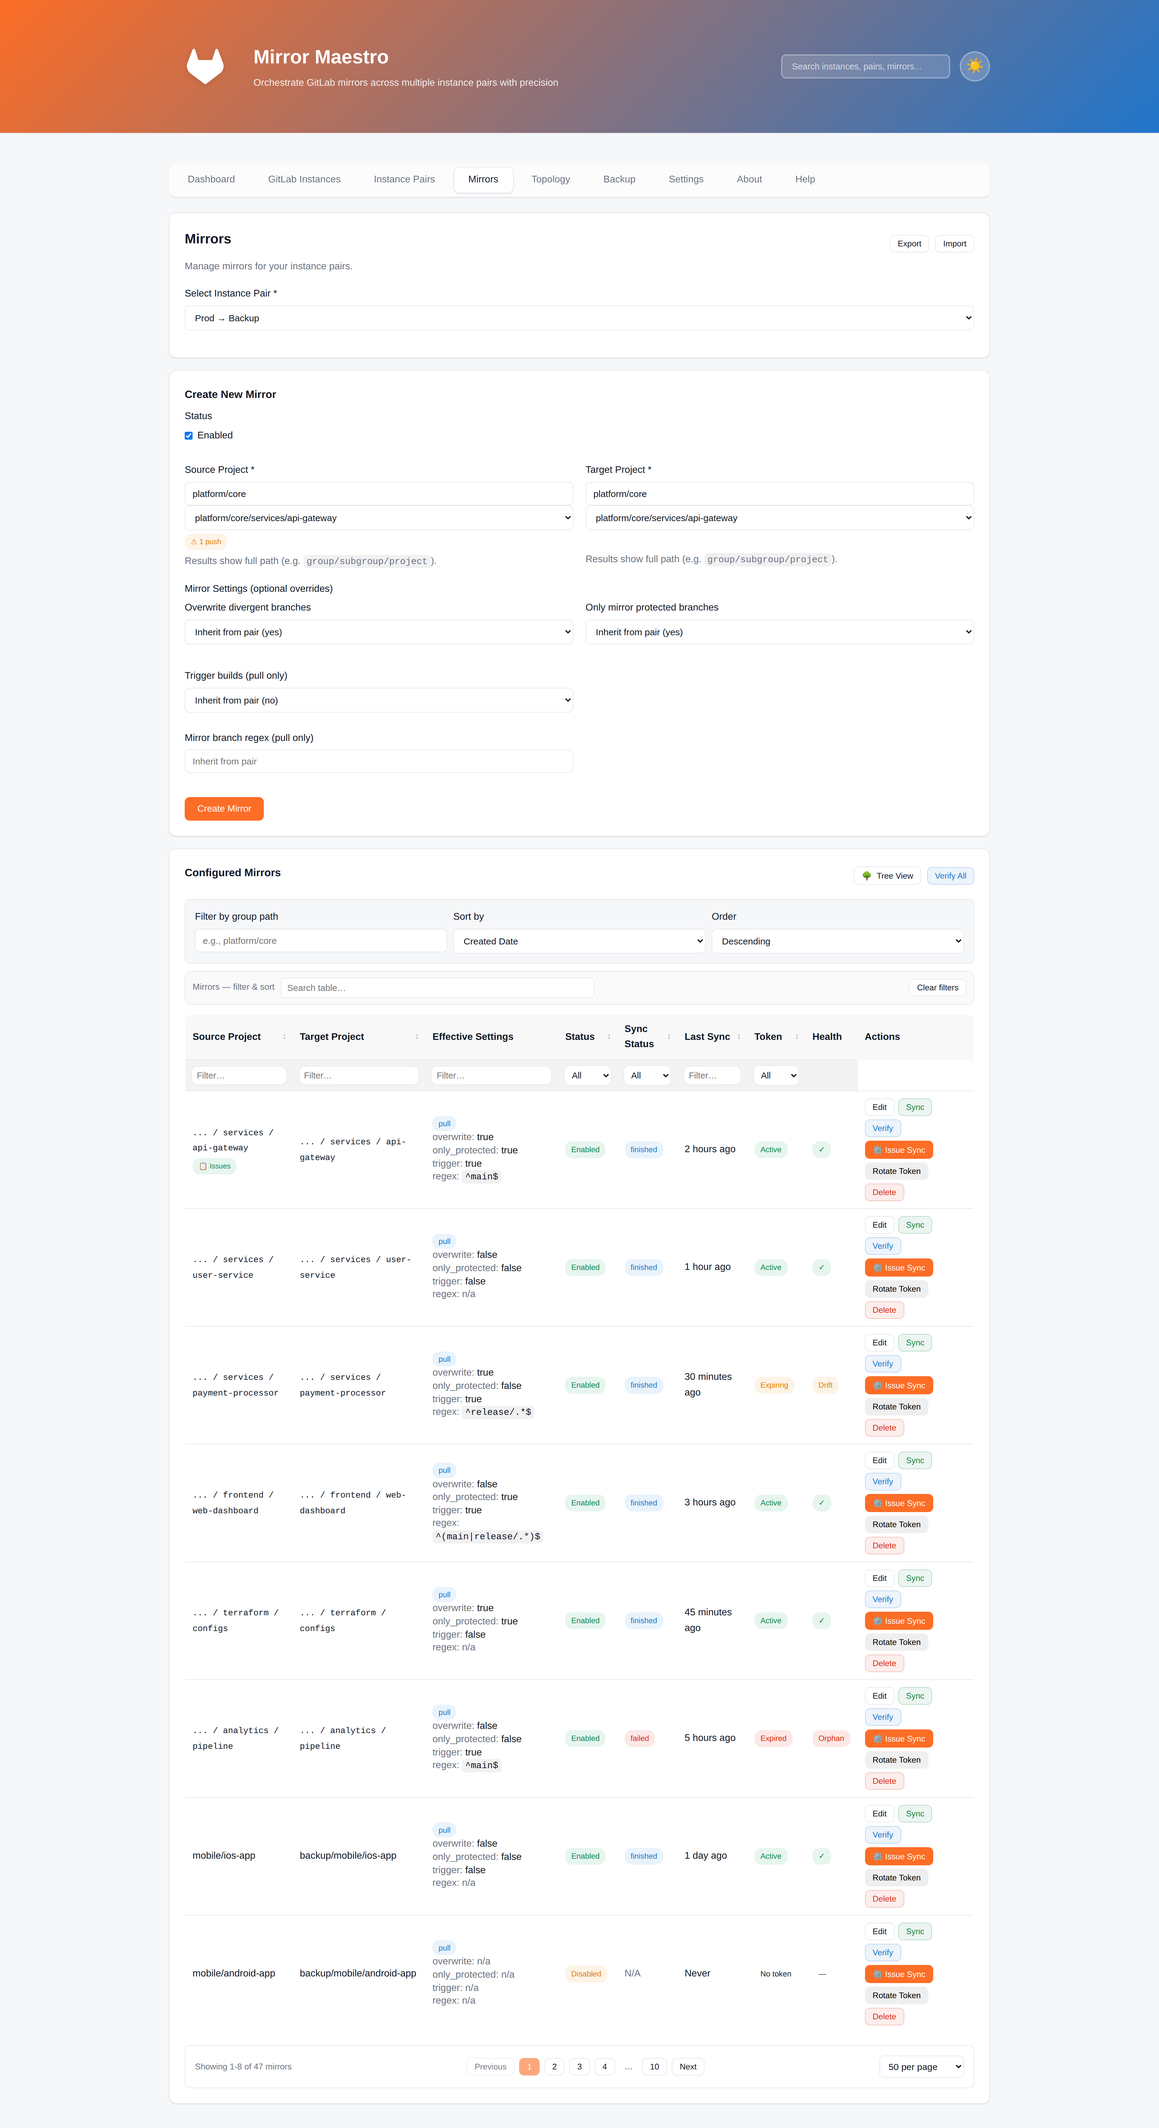
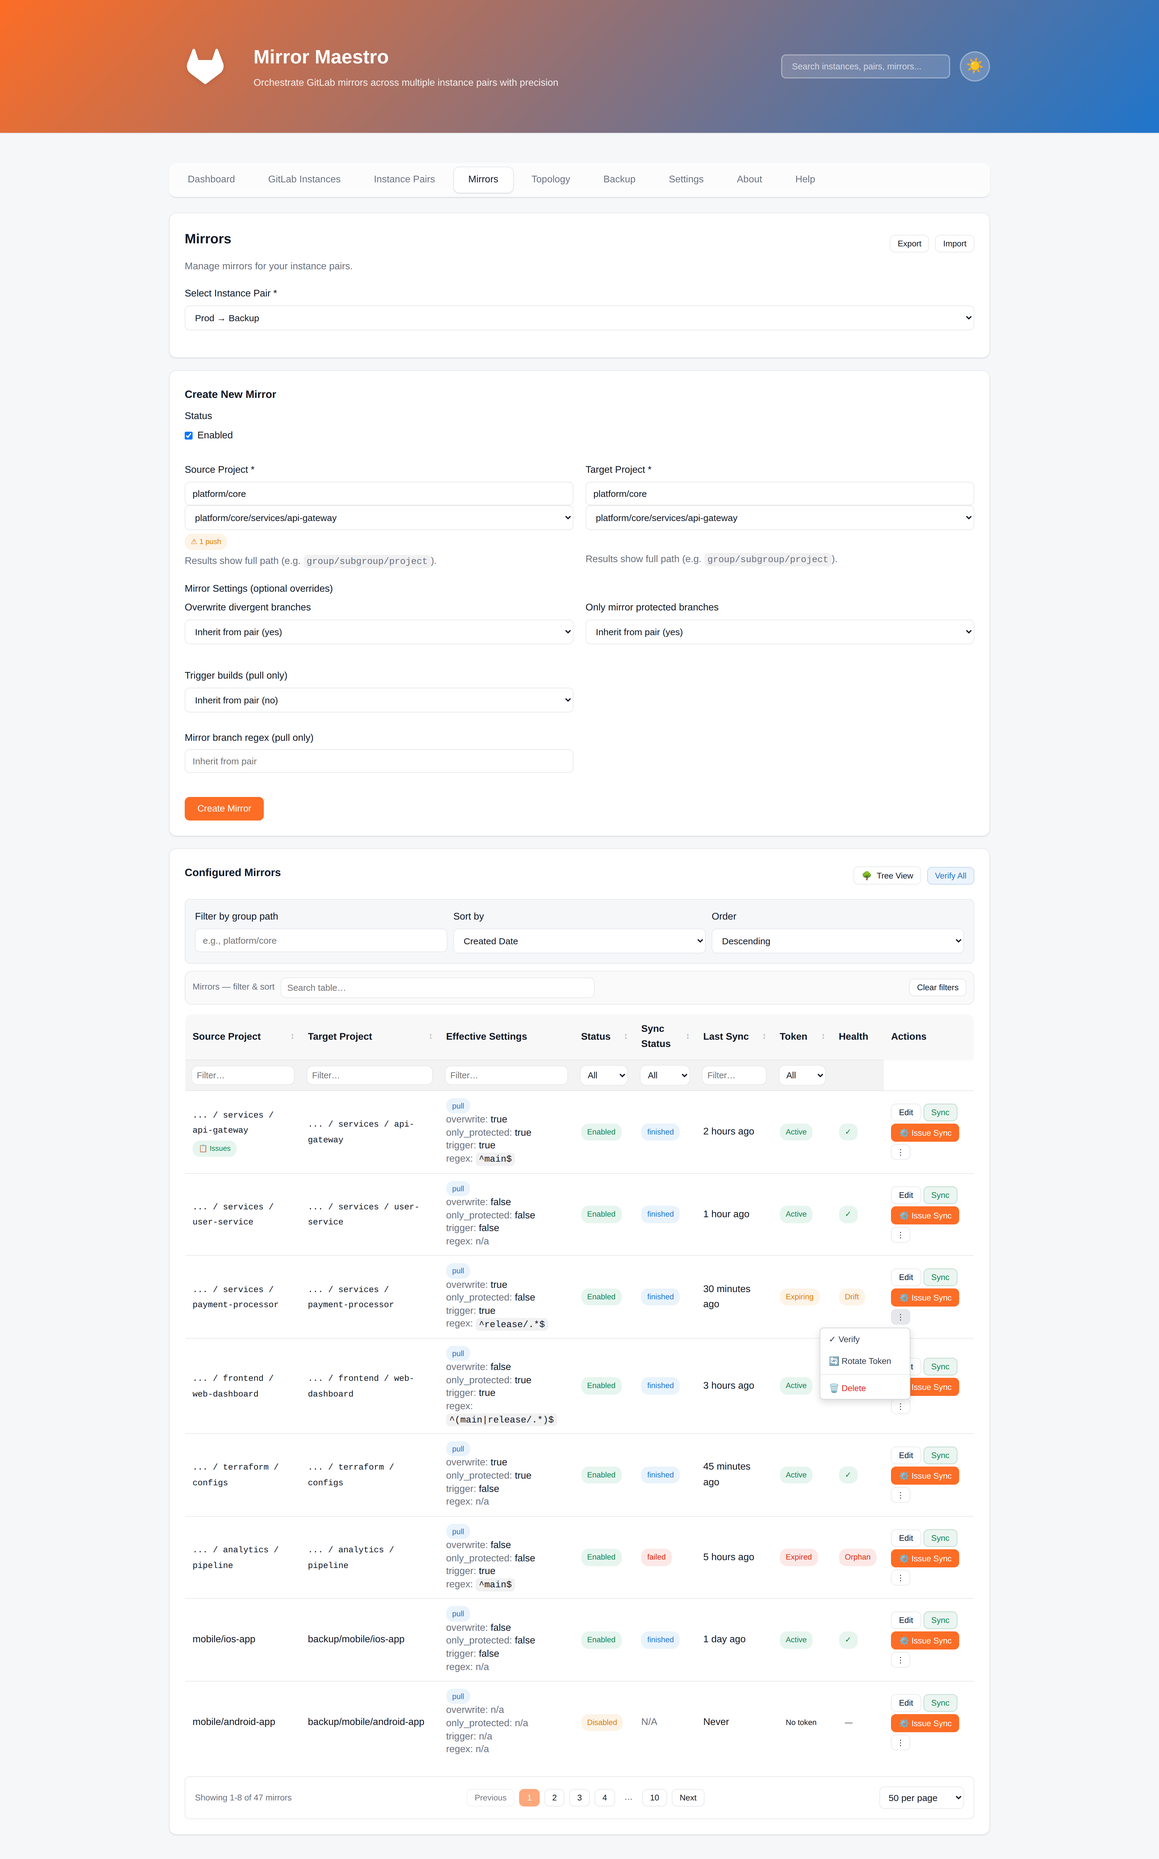
feat: Redesign Actions column with dropdown menu for cleaner UI
- Reduce visual clutter by showing only primary actions (Edit, Sync, Issue Sync)
- Move secondary actions (Verify, Rotate Token, Delete) to dropdown menu
- Add ⋮ (vertical ellipsis) button to access dropdown
- Show one row with expanded dropdown to demonstrate available options
- Improve table readability and reduce button overload

diff --git a/docs/screenshots/demo-mirrors.html b/docs/screenshots/demo-mirrors.html
@@ -224,13 +224,19 @@
                             <td><span class="badge badge-success">Active</span></td>
                             <td><span class="badge badge-success" title="Mirror verified: healthy">✓</span></td>
                             <td>
-                                <div class="table-actions">
+                                <div class="table-actions" style="display: flex; gap: 0.25rem; flex-wrap: wrap;">
                                     <button class="btn btn-secondary btn-small">Edit</button>
                                     <button class="btn btn-success btn-small">Sync</button>
-                                    <button class="btn btn-info btn-small">Verify</button>
                                     <button class="btn btn-primary btn-small">⚙ Issue Sync</button>
-                                    <button class="btn btn-warning btn-small">Rotate Token</button>
-                                    <button class="btn btn-danger btn-small">Delete</button>
+                                    <div style="position: relative; display: inline-block;">
+                                        <button class="btn btn-secondary btn-small" style="padding: 0.25rem 0.5rem;">⋮</button>
+                                        <div style="display: none; position: absolute; right: 0; background: white; border: 1px solid #e5e7eb; border-radius: 0.25rem; box-shadow: 0 2px 8px rgba(0,0,0,0.1); min-width: 140px; z-index: 1000;">
+                                            <button style="display: block; width: 100%; text-align: left; padding: 0.5rem 0.75rem; border: none; background: none; cursor: pointer; font-size: 0.875rem;">✓ Verify</button>
+                                            <button style="display: block; width: 100%; text-align: left; padding: 0.5rem 0.75rem; border: none; background: none; cursor: pointer; font-size: 0.875rem;">🔄 Rotate Token</button>
+                                            <hr style="margin: 0.25rem 0; border: none; border-top: 1px solid #e5e7eb;">
+                                            <button style="display: block; width: 100%; text-align: left; padding: 0.5rem 0.75rem; border: none; background: none; cursor: pointer; font-size: 0.875rem; color: #dc2626;">🗑 Delete</button>
+                                        </div>
+                                    </div>
                                 </div>
                             </td>
                         </tr>
@@ -252,13 +258,19 @@
                             <td><span class="badge badge-success">Active</span></td>
                             <td><span class="badge badge-success" title="Mirror verified: healthy">✓</span></td>
                             <td>
-                                <div class="table-actions">
+                                <div class="table-actions" style="display: flex; gap: 0.25rem; flex-wrap: wrap;">
                                     <button class="btn btn-secondary btn-small">Edit</button>
                                     <button class="btn btn-success btn-small">Sync</button>
-                                    <button class="btn btn-info btn-small">Verify</button>
                                     <button class="btn btn-primary btn-small">⚙ Issue Sync</button>
-                                    <button class="btn btn-warning btn-small">Rotate Token</button>
-                                    <button class="btn btn-danger btn-small">Delete</button>
+                                    <div style="position: relative; display: inline-block;">
+                                        <button class="btn btn-secondary btn-small" style="padding: 0.25rem 0.5rem;">⋮</button>
+                                        <div style="display: none; position: absolute; right: 0; background: white; border: 1px solid #e5e7eb; border-radius: 0.25rem; box-shadow: 0 2px 8px rgba(0,0,0,0.1); min-width: 140px; z-index: 1000;">
+                                            <button style="display: block; width: 100%; text-align: left; padding: 0.5rem 0.75rem; border: none; background: none; cursor: pointer; font-size: 0.875rem;">✓ Verify</button>
+                                            <button style="display: block; width: 100%; text-align: left; padding: 0.5rem 0.75rem; border: none; background: none; cursor: pointer; font-size: 0.875rem;">🔄 Rotate Token</button>
+                                            <hr style="margin: 0.25rem 0; border: none; border-top: 1px solid #e5e7eb;">
+                                            <button style="display: block; width: 100%; text-align: left; padding: 0.5rem 0.75rem; border: none; background: none; cursor: pointer; font-size: 0.875rem; color: #dc2626;">🗑 Delete</button>
+                                        </div>
+                                    </div>
                                 </div>
                             </td>
                         </tr>
@@ -280,13 +292,19 @@
                             <td><span class="badge badge-warning" title="Expires 2026-01-15">Expiring</span></td>
                             <td><span class="badge badge-warning" title="Settings mismatch: enabled: expected true, got false">Drift</span></td>
                             <td>
-                                <div class="table-actions">
+                                <div class="table-actions" style="display: flex; gap: 0.25rem; flex-wrap: wrap;">
                                     <button class="btn btn-secondary btn-small">Edit</button>
                                     <button class="btn btn-success btn-small">Sync</button>
-                                    <button class="btn btn-info btn-small">Verify</button>
                                     <button class="btn btn-primary btn-small">⚙ Issue Sync</button>
-                                    <button class="btn btn-warning btn-small">Rotate Token</button>
-                                    <button class="btn btn-danger btn-small">Delete</button>
+                                    <div style="position: relative; display: inline-block;">
+                                        <button class="btn btn-secondary btn-small" style="padding: 0.25rem 0.5rem; background: #e5e7eb;">⋮</button>
+                                        <div style="display: block; position: absolute; right: 0; top: 100%; margin-top: 0.25rem; background: white; border: 1px solid #d1d5db; border-radius: 0.375rem; box-shadow: 0 4px 12px rgba(0,0,0,0.15); min-width: 150px; z-index: 1000;">
+                                            <button style="display: block; width: 100%; text-align: left; padding: 0.625rem 0.875rem; border: none; background: none; cursor: pointer; font-size: 0.875rem; color: #374151;">✓ Verify</button>
+                                            <button style="display: block; width: 100%; text-align: left; padding: 0.625rem 0.875rem; border: none; background: none; cursor: pointer; font-size: 0.875rem; color: #374151;">🔄 Rotate Token</button>
+                                            <hr style="margin: 0.25rem 0; border: none; border-top: 1px solid #e5e7eb;">
+                                            <button style="display: block; width: 100%; text-align: left; padding: 0.625rem 0.875rem; border: none; background: none; cursor: pointer; font-size: 0.875rem; color: #dc2626;">🗑 Delete</button>
+                                        </div>
+                                    </div>
                                 </div>
                             </td>
                         </tr>
@@ -308,13 +326,19 @@
                             <td><span class="badge badge-success">Active</span></td>
                             <td><span class="badge badge-success" title="Mirror verified: healthy">✓</span></td>
                             <td>
-                                <div class="table-actions">
+                                <div class="table-actions" style="display: flex; gap: 0.25rem; flex-wrap: wrap;">
                                     <button class="btn btn-secondary btn-small">Edit</button>
                                     <button class="btn btn-success btn-small">Sync</button>
-                                    <button class="btn btn-info btn-small">Verify</button>
                                     <button class="btn btn-primary btn-small">⚙ Issue Sync</button>
-                                    <button class="btn btn-warning btn-small">Rotate Token</button>
-                                    <button class="btn btn-danger btn-small">Delete</button>
+                                    <div style="position: relative; display: inline-block;">
+                                        <button class="btn btn-secondary btn-small" style="padding: 0.25rem 0.5rem;">⋮</button>
+                                        <div style="display: none; position: absolute; right: 0; background: white; border: 1px solid #e5e7eb; border-radius: 0.25rem; box-shadow: 0 2px 8px rgba(0,0,0,0.1); min-width: 140px; z-index: 1000;">
+                                            <button style="display: block; width: 100%; text-align: left; padding: 0.5rem 0.75rem; border: none; background: none; cursor: pointer; font-size: 0.875rem;">✓ Verify</button>
+                                            <button style="display: block; width: 100%; text-align: left; padding: 0.5rem 0.75rem; border: none; background: none; cursor: pointer; font-size: 0.875rem;">🔄 Rotate Token</button>
+                                            <hr style="margin: 0.25rem 0; border: none; border-top: 1px solid #e5e7eb;">
+                                            <button style="display: block; width: 100%; text-align: left; padding: 0.5rem 0.75rem; border: none; background: none; cursor: pointer; font-size: 0.875rem; color: #dc2626;">🗑 Delete</button>
+                                        </div>
+                                    </div>
                                 </div>
                             </td>
                         </tr>
@@ -336,13 +360,19 @@
                             <td><span class="badge badge-success">Active</span></td>
                             <td><span class="badge badge-success" title="Mirror verified: healthy">✓</span></td>
                             <td>
-                                <div class="table-actions">
+                                <div class="table-actions" style="display: flex; gap: 0.25rem; flex-wrap: wrap;">
                                     <button class="btn btn-secondary btn-small">Edit</button>
                                     <button class="btn btn-success btn-small">Sync</button>
-                                    <button class="btn btn-info btn-small">Verify</button>
                                     <button class="btn btn-primary btn-small">⚙ Issue Sync</button>
-                                    <button class="btn btn-warning btn-small">Rotate Token</button>
-                                    <button class="btn btn-danger btn-small">Delete</button>
+                                    <div style="position: relative; display: inline-block;">
+                                        <button class="btn btn-secondary btn-small" style="padding: 0.25rem 0.5rem;">⋮</button>
+                                        <div style="display: none; position: absolute; right: 0; background: white; border: 1px solid #e5e7eb; border-radius: 0.25rem; box-shadow: 0 2px 8px rgba(0,0,0,0.1); min-width: 140px; z-index: 1000;">
+                                            <button style="display: block; width: 100%; text-align: left; padding: 0.5rem 0.75rem; border: none; background: none; cursor: pointer; font-size: 0.875rem;">✓ Verify</button>
+                                            <button style="display: block; width: 100%; text-align: left; padding: 0.5rem 0.75rem; border: none; background: none; cursor: pointer; font-size: 0.875rem;">🔄 Rotate Token</button>
+                                            <hr style="margin: 0.25rem 0; border: none; border-top: 1px solid #e5e7eb;">
+                                            <button style="display: block; width: 100%; text-align: left; padding: 0.5rem 0.75rem; border: none; background: none; cursor: pointer; font-size: 0.875rem; color: #dc2626;">🗑 Delete</button>
+                                        </div>
+                                    </div>
                                 </div>
                             </td>
                         </tr>
@@ -364,13 +394,19 @@
                             <td><span class="badge badge-danger">Expired</span></td>
                             <td><span class="badge badge-danger" title="Mirror no longer exists on GitLab">Orphan</span></td>
                             <td>
-                                <div class="table-actions">
+                                <div class="table-actions" style="display: flex; gap: 0.25rem; flex-wrap: wrap;">
                                     <button class="btn btn-secondary btn-small">Edit</button>
                                     <button class="btn btn-success btn-small">Sync</button>
-                                    <button class="btn btn-info btn-small">Verify</button>
                                     <button class="btn btn-primary btn-small">⚙ Issue Sync</button>
-                                    <button class="btn btn-warning btn-small">Rotate Token</button>
-                                    <button class="btn btn-danger btn-small">Delete</button>
+                                    <div style="position: relative; display: inline-block;">
+                                        <button class="btn btn-secondary btn-small" style="padding: 0.25rem 0.5rem;">⋮</button>
+                                        <div style="display: none; position: absolute; right: 0; background: white; border: 1px solid #e5e7eb; border-radius: 0.25rem; box-shadow: 0 2px 8px rgba(0,0,0,0.1); min-width: 140px; z-index: 1000;">
+                                            <button style="display: block; width: 100%; text-align: left; padding: 0.5rem 0.75rem; border: none; background: none; cursor: pointer; font-size: 0.875rem;">✓ Verify</button>
+                                            <button style="display: block; width: 100%; text-align: left; padding: 0.5rem 0.75rem; border: none; background: none; cursor: pointer; font-size: 0.875rem;">🔄 Rotate Token</button>
+                                            <hr style="margin: 0.25rem 0; border: none; border-top: 1px solid #e5e7eb;">
+                                            <button style="display: block; width: 100%; text-align: left; padding: 0.5rem 0.75rem; border: none; background: none; cursor: pointer; font-size: 0.875rem; color: #dc2626;">🗑 Delete</button>
+                                        </div>
+                                    </div>
                                 </div>
                             </td>
                         </tr>
@@ -392,13 +428,19 @@
                             <td><span class="badge badge-success">Active</span></td>
                             <td><span class="badge badge-success" title="Mirror verified: healthy">✓</span></td>
                             <td>
-                                <div class="table-actions">
+                                <div class="table-actions" style="display: flex; gap: 0.25rem; flex-wrap: wrap;">
                                     <button class="btn btn-secondary btn-small">Edit</button>
                                     <button class="btn btn-success btn-small">Sync</button>
-                                    <button class="btn btn-info btn-small">Verify</button>
                                     <button class="btn btn-primary btn-small">⚙ Issue Sync</button>
-                                    <button class="btn btn-warning btn-small">Rotate Token</button>
-                                    <button class="btn btn-danger btn-small">Delete</button>
+                                    <div style="position: relative; display: inline-block;">
+                                        <button class="btn btn-secondary btn-small" style="padding: 0.25rem 0.5rem;">⋮</button>
+                                        <div style="display: none; position: absolute; right: 0; background: white; border: 1px solid #e5e7eb; border-radius: 0.25rem; box-shadow: 0 2px 8px rgba(0,0,0,0.1); min-width: 140px; z-index: 1000;">
+                                            <button style="display: block; width: 100%; text-align: left; padding: 0.5rem 0.75rem; border: none; background: none; cursor: pointer; font-size: 0.875rem;">✓ Verify</button>
+                                            <button style="display: block; width: 100%; text-align: left; padding: 0.5rem 0.75rem; border: none; background: none; cursor: pointer; font-size: 0.875rem;">🔄 Rotate Token</button>
+                                            <hr style="margin: 0.25rem 0; border: none; border-top: 1px solid #e5e7eb;">
+                                            <button style="display: block; width: 100%; text-align: left; padding: 0.5rem 0.75rem; border: none; background: none; cursor: pointer; font-size: 0.875rem; color: #dc2626;">🗑 Delete</button>
+                                        </div>
+                                    </div>
                                 </div>
                             </td>
                         </tr>
@@ -420,13 +462,19 @@
                             <td><span class="badge badge-secondary">No token</span></td>
                             <td><span class="badge badge-secondary" title="Mirror not yet created on GitLab">—</span></td>
                             <td>
-                                <div class="table-actions">
+                                <div class="table-actions" style="display: flex; gap: 0.25rem; flex-wrap: wrap;">
                                     <button class="btn btn-secondary btn-small">Edit</button>
                                     <button class="btn btn-success btn-small">Sync</button>
-                                    <button class="btn btn-info btn-small">Verify</button>
                                     <button class="btn btn-primary btn-small">⚙ Issue Sync</button>
-                                    <button class="btn btn-warning btn-small">Rotate Token</button>
-                                    <button class="btn btn-danger btn-small">Delete</button>
+                                    <div style="position: relative; display: inline-block;">
+                                        <button class="btn btn-secondary btn-small" style="padding: 0.25rem 0.5rem;">⋮</button>
+                                        <div style="display: none; position: absolute; right: 0; background: white; border: 1px solid #e5e7eb; border-radius: 0.25rem; box-shadow: 0 2px 8px rgba(0,0,0,0.1); min-width: 140px; z-index: 1000;">
+                                            <button style="display: block; width: 100%; text-align: left; padding: 0.5rem 0.75rem; border: none; background: none; cursor: pointer; font-size: 0.875rem;">✓ Verify</button>
+                                            <button style="display: block; width: 100%; text-align: left; padding: 0.5rem 0.75rem; border: none; background: none; cursor: pointer; font-size: 0.875rem;">🔄 Rotate Token</button>
+                                            <hr style="margin: 0.25rem 0; border: none; border-top: 1px solid #e5e7eb;">
+                                            <button style="display: block; width: 100%; text-align: left; padding: 0.5rem 0.75rem; border: none; background: none; cursor: pointer; font-size: 0.875rem; color: #dc2626;">🗑 Delete</button>
+                                        </div>
+                                    </div>
                                 </div>
                             </td>
                         </tr>
